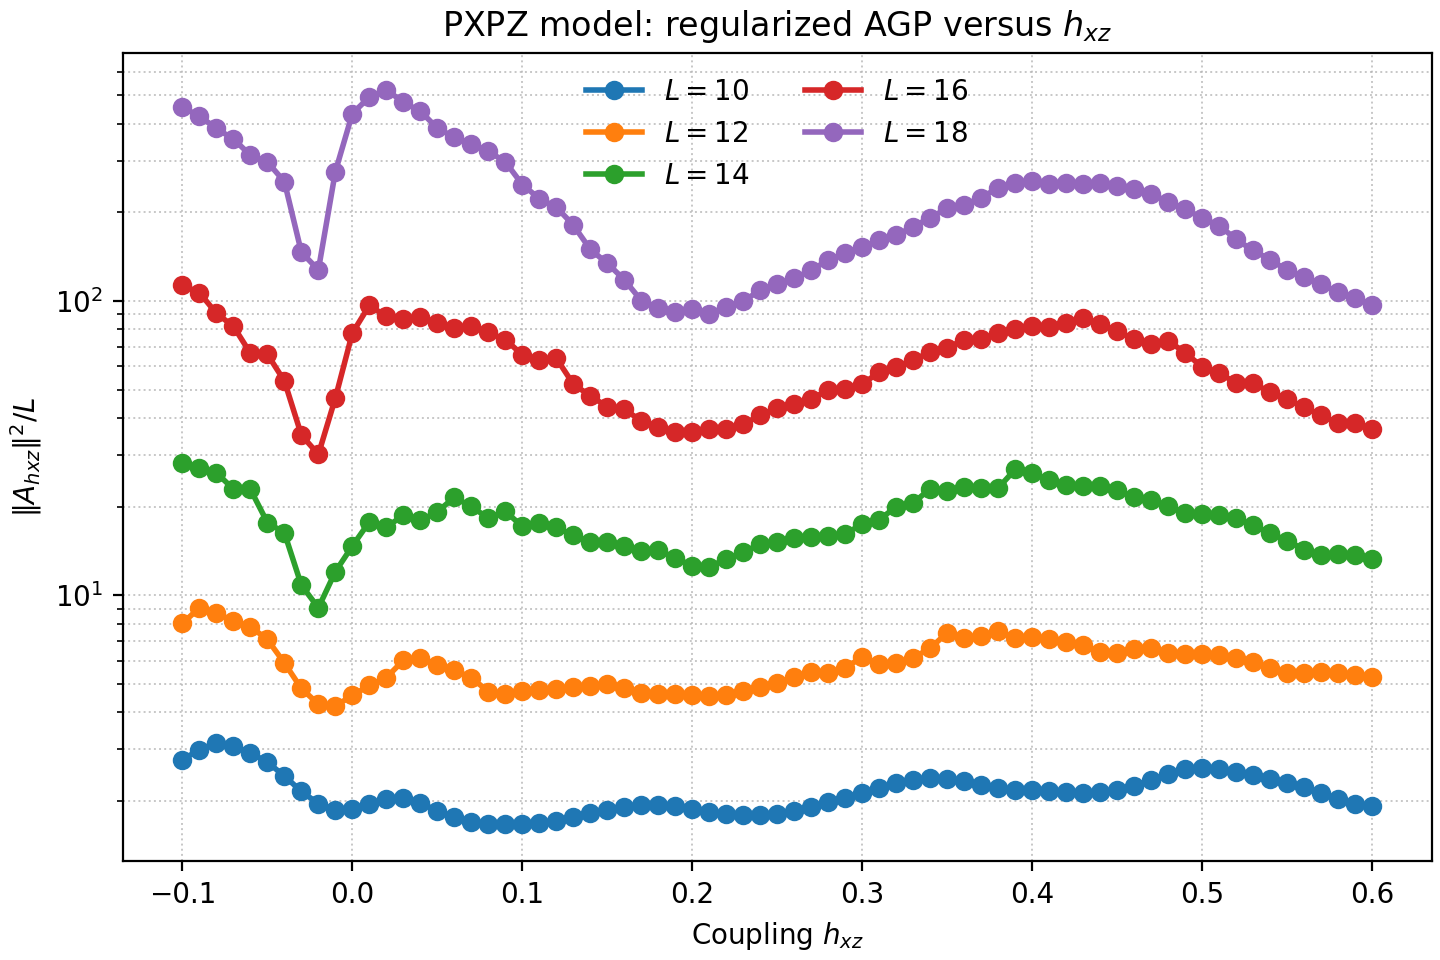
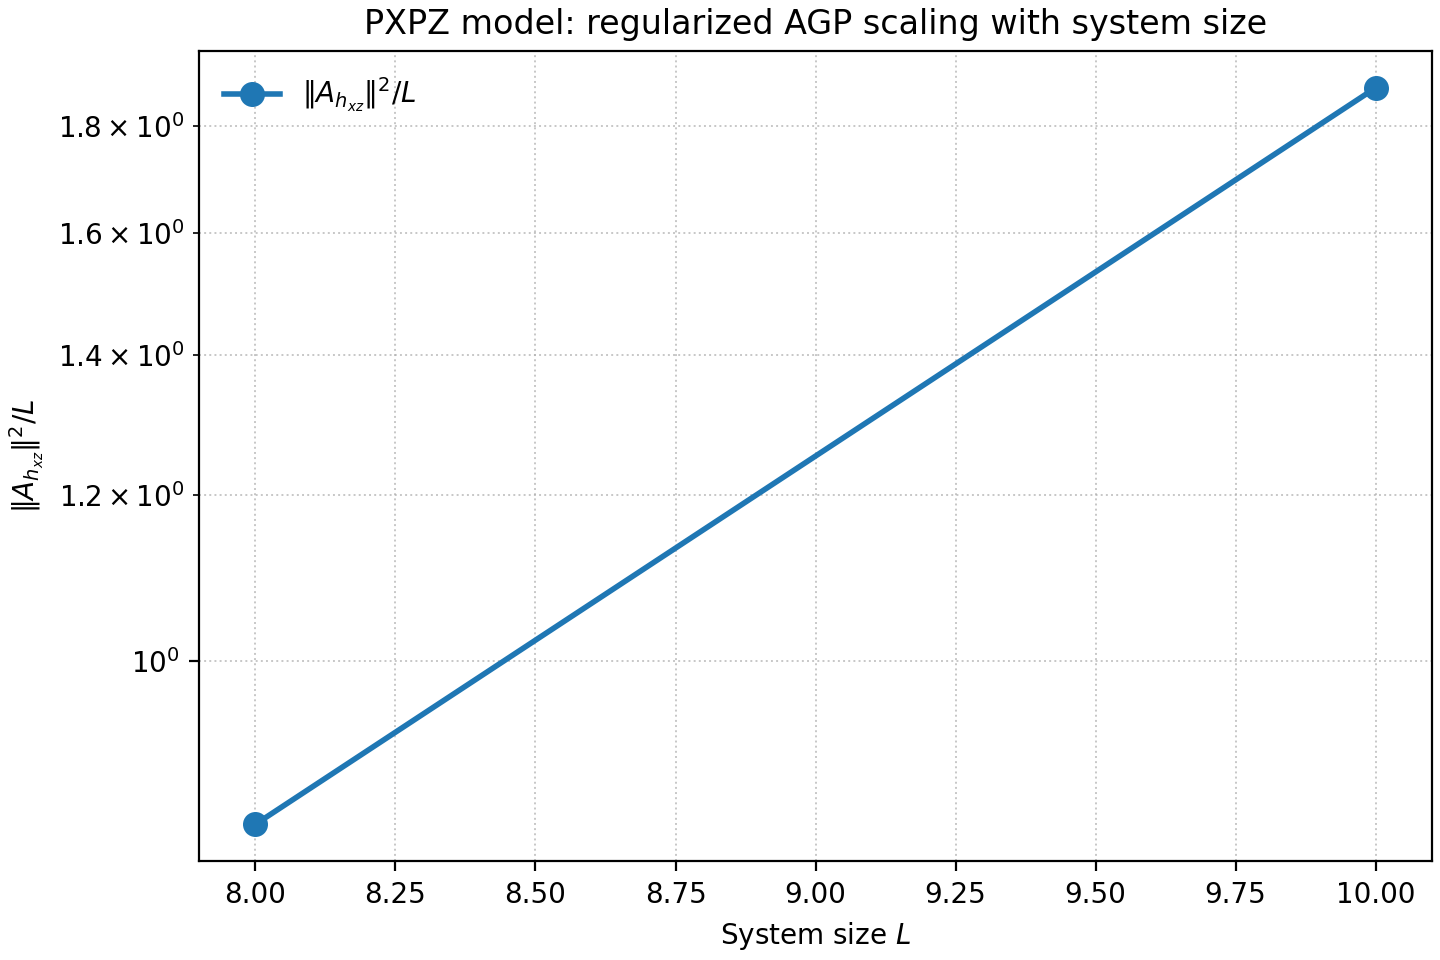
add spectral function

diff --git a/reproduce_fig6_7.py b/reproduce_fig6_7.py
@@ -1,0 +1,186 @@
+"""Reproduce Figs. 6 and 7 from Phys. Rev. X 10, 041017 (2020).
+
+This script computes the spectral weight
+
+    |f_\lambda(\omega)|^2 = (1/D) \sum_{n\ne m} |<n|\partial_\lambda H|m>|^2
+                                  * L_mu(\omega - (E_n-E_m))
+
+where the delta functions are replaced by Lorentzians L_mu(x) = (1/pi) mu/(x^2+mu^2)
+with width mu = L * 2^{-L} as in the paper. We average/plot the spectral
+weight on a logarithmically spaced frequency grid.
+
+By default the script computes the data for modest system sizes (L=12,14)
+to keep the test quick. Increase sizes and bins for production runs.
+"""
+
+from __future__ import annotations
+
+import argparse
+from pathlib import Path
+from typing import Iterable
+
+import matplotlib.pyplot as plt
+import numpy as np
+from quspin.basis import spin_basis_1d
+from quspin.operators import hamiltonian
+
+
+def build_xxz_with_defect(l: int, delta: float, eps_d: float) -> tuple[np.ndarray, np.ndarray, np.ndarray]:
+    """Return dense H, dH/dDelta, and V (defect operator) for given params.
+
+    H = H_XXZ + eps_d * V, with V = sigma^z_{center}.
+    dH/dDelta = sum_i sigma^z_i sigma^z_{i+1} (nearest-neighbor ZZ).
+    """
+    if l % 2 != 0:
+        raise ValueError("Use even L for zero-magnetization sector")
+
+    basis = spin_basis_1d(l, Nup=l // 2, pauli=True)
+
+    nn_xx = [[1.0, i, i + 1] for i in range(l - 1)]
+    nn_yy = [[1.0, i, i + 1] for i in range(l - 1)]
+    nn_zz = [[delta, i, i + 1] for i in range(l - 1)]
+
+    h_base = hamiltonian([["xx", nn_xx], ["yy", nn_yy], ["zz", nn_zz]], [], basis=basis, dtype=np.float64, check_herm=False)
+    dh_ddelta = hamiltonian([["zz", [[1.0, i, i + 1] for i in range(l - 1)]]], [], basis=basis, dtype=np.float64, check_herm=False)
+
+    center = (l + 1) // 2 - 1
+    v_list = [[1.0, center]]
+    Vop = hamiltonian([["z", v_list]], [], basis=basis, dtype=np.float64, check_herm=False)
+
+    H = np.asarray(h_base.todense(), dtype=np.float64) + float(eps_d) * np.asarray(Vop.todense(), dtype=np.float64)
+    return H, np.asarray(dh_ddelta.todense(), dtype=np.float64), np.asarray(Vop.todense(), dtype=np.float64)
+
+
+def spectral_weight_from_matrix(h: np.ndarray, dh: np.ndarray, mu: float, omega_grid: np.ndarray) -> np.ndarray:
+    """Compute |f_lambda(omega)|^2 on omega_grid using Lorentzian broadening mu.
+
+    Returns array of same shape as omega_grid.
+    """
+    evals, evecs = np.linalg.eigh(h)
+    dh_eig = evecs.conj().T @ dh @ evecs
+
+    En = evals[:, None]
+    Em = evals[None, :]
+    omegas = (En - Em)  # matrix of E_n - E_m
+
+    M2 = np.abs(dh_eig) ** 2
+    np.fill_diagonal(M2, 0.0)
+
+    D = h.shape[0]
+
+    # compute spectral function S(omega) = (1/D) * sum_{n!=m} M2_nm * Lorentzian(omega - omega_nm)
+    # Lorentzian normalized as (1/pi) * mu/(x^2+mu^2)
+    omega_flat = omegas.reshape(-1)
+    M2_flat = M2.reshape(-1)
+
+    S = np.zeros_like(omega_grid, dtype=float)
+    for i, w in enumerate(omega_grid):
+        x = w - omega_flat
+        L = (1.0 / np.pi) * (mu / (x * x + mu * mu))
+        S[i] = (1.0 / D) * np.sum(M2_flat * L)
+
+    return S
+
+
+def compute_and_plot_fig6(l_values: Iterable[int], delta: float, epsd_vals: Iterable[float], bins: int, output: Path) -> None:
+    """Compute and plot spectral weight for integrable perturbation (Fig. 6).
+
+    Plot |f_lambda(omega)|^2 vs omega for lambda=Delta at different epsd (including 0 and small epsd).
+    """
+    omega_min_factor = 1e-6
+    fig, ax = plt.subplots(figsize=(7.2, 4.8), constrained_layout=True)
+
+    for epsd in epsd_vals:
+        for L in l_values:
+            H, dh_ddelta, V = build_xxz_with_defect(L, delta, epsd)
+            mu = L * 2 ** (-L)
+
+            # define log-spaced omega grid between mu*1e-2 and max energy diff
+            evals = np.linalg.eigvalsh(H)
+            max_omega = np.max(evals) - np.min(evals)
+            omega_grid = np.logspace(np.log10(max(mu * 1e-3, 1e-12)), np.log10(max_omega + 1e-12), bins)
+
+            S = spectral_weight_from_matrix(H, dh_ddelta, mu, omega_grid)
+
+            label = fr"L={L}, epsd={epsd:.3g}" if epsd != 0.0 else fr"L={L}, epsd=0"
+            ax.loglog(omega_grid, S, label=label)
+
+    ax.set_xlabel(r"Frequency $\omega$")
+    ax.set_ylabel(r"$|f_\lambda(\omega)|^2$")
+    ax.set_title("Fig. 6 reproduction: spectral weight for integrable perturbation (\lambda=\Delta)")
+    ax.grid(True, which="both", linestyle=":", linewidth=0.7, alpha=0.7)
+    ax.legend(frameon=False, fontsize="small", ncol=2)
+    fig.savefig(output, dpi=200)
+    print(f"Saved {output}")
+
+
+def compute_and_plot_fig7(l_values: Iterable[int], delta: float, output: Path, bins: int = 200) -> None:
+    """Compute and plot spectral weights for nonintegrable perturbations (Fig. 7).
+
+    Top: lambda = epsd at epsd=0 (integrable point). Bottom: lambda=Delta at epsd=0.5 (strongly nonintegrable).
+    """
+    # top panel: lambda = epsd, epsd=0
+    fig, axes = plt.subplots(2, 1, figsize=(7.2, 9.6), constrained_layout=True)
+
+    # Top: lambda = epsd, at epsd=0 (integrable)
+    epsd = 0.0
+    ax = axes[0]
+    for L in l_values:
+        H, dh_ddelta, V = build_xxz_with_defect(L, delta, epsd)
+        mu = L * 2 ** (-L)
+        evals = np.linalg.eigvalsh(H)
+        max_omega = np.max(evals) - np.min(evals)
+        omega_grid = np.logspace(np.log10(max(mu * 1e-3, 1e-12)), np.log10(max_omega + 1e-12), bins)
+        S = spectral_weight_from_matrix(H, V, mu, omega_grid)  # derivative wrt epsd is V
+        ax.loglog(omega_grid, S, label=fr"L={L}")
+    ax.set_title("Fig.7 top: spectral weight for lambda=epsd at epsd=0 (integrable)")
+    ax.set_ylabel(r"$|f_\lambda(\omega)|^2$")
+    ax.grid(True, which="both", linestyle=":", linewidth=0.7, alpha=0.7)
+    ax.legend(frameon=False, fontsize="small")
+
+    # Bottom: lambda = Delta at epsd = 0.5 (strongly nonintegrable)
+    epsd = 0.5
+    ax = axes[1]
+    for L in l_values:
+        H, dh_ddelta, V = build_xxz_with_defect(L, delta, epsd)
+        mu = L * 2 ** (-L)
+        evals = np.linalg.eigvalsh(H)
+        max_omega = np.max(evals) - np.min(evals)
+        omega_grid = np.logspace(np.log10(max(mu * 1e-3, 1e-12)), np.log10(max_omega + 1e-12), bins)
+        S = spectral_weight_from_matrix(H, dh_ddelta, mu, omega_grid)
+        ax.loglog(omega_grid, S, label=fr"L={L}")
+    ax.set_title("Fig.7 bottom: spectral weight for lambda=Delta at epsd=0.5 (nonintegrable)")
+    ax.set_xlabel(r"Frequency $\omega$")
+    ax.set_ylabel(r"$|f_\lambda(\omega)|^2$")
+    ax.grid(True, which="both", linestyle=":", linewidth=0.7, alpha=0.7)
+    ax.legend(frameon=False, fontsize="small")
+
+    fig.savefig(output, dpi=200)
+    print(f"Saved {output}")
+
+
+def parse_args():
+    p = argparse.ArgumentParser(description=__doc__)
+    p.add_argument("--l-values", type=int, nargs="+", default=[12, 14], help="System sizes")
+    p.add_argument("--delta", type=float, default=1.1, help="XXZ anisotropy")
+    p.add_argument("--bins", type=int, default=200, help="Number of frequency bins (log-spaced)")
+    p.add_argument("--output6", type=Path, default=Path("fig6_spectral.png"))
+    p.add_argument("--output7", type=Path, default=Path("fig7_spectral.png"))
+    return p.parse_args()
+
+
+def main():
+    args = parse_args()
+    l_values = args.l_values
+    delta = args.delta
+    bins = args.bins
+
+    # Fig. 6: lambda = Delta, epsd = 0 and 0.05
+    compute_and_plot_fig6(l_values, delta, epsd_vals=[0.0, 0.05], bins=bins, output=args.output6)
+
+    # Fig. 7: two-panel plot
+    compute_and_plot_fig7(l_values, delta, output=args.output7, bins=bins)
+
+
+if __name__ == "__main__":
+    main()

diff --git a/pxp_agp_scaling.py b/pxp_agp_scaling.py
@@ -27,6 +27,7 @@ from diag import GetBasis, GetHam
 import os
 import json
 import hashlib
+from typing import Dict, Tuple
 
 
 def regularized_agp_norm_pxp(
@@ -190,6 +191,116 @@ def compute_pxp_chi_typ_series(
             print(f"L={l:2d}, hxz={hxz: .5f}, D={basis_dim:6d}, chi_typ/L={chi_typ_per_l:.6e}")
 
     return results
+
+
+def spectral_weight_from_matrix(h: np.ndarray, dh: np.ndarray, mu: float, omega_grid: np.ndarray) -> np.ndarray:
+    """Compute |f_lambda(omega)|^2 on omega_grid using Lorentzian broadening mu."""
+
+    evals, evecs = np.linalg.eigh(h)
+    dh_eig = evecs.conj().T @ dh @ evecs
+
+    omegas = (evals[:, None] - evals[None, :]).reshape(-1)
+    m2 = np.abs(dh_eig) ** 2
+    np.fill_diagonal(m2, 0.0)
+    m2_flat = m2.reshape(-1)
+
+    D = h.shape[0]
+    spectral = np.zeros_like(omega_grid, dtype=float)
+    for idx, omega in enumerate(omega_grid):
+        x = omega - omegas
+        lorentz = (1.0 / np.pi) * (mu / (x * x + mu * mu))
+        spectral[idx] = (1.0 / D) * np.sum(m2_flat * lorentz)
+
+    return spectral
+
+
+def compute_pxp_spectral_series(
+    l_values: Iterable[int],
+    hxz: float = 0.0,
+    bins: int = 200,
+    symmetry: tuple = (False, False),
+    boundary: str = "OBC",
+) -> dict[int, tuple[np.ndarray, np.ndarray]]:
+    """Compute spectral weight |f_{h_xz}(omega)|^2 vs omega for fixed hxz."""
+
+    results: dict[int, tuple[np.ndarray, np.ndarray]] = {}
+
+    for l in l_values:
+        gen_dict = dict(N=l, hxz=0.0, sym=symmetry, model="PXPZ", bound=boundary)
+        basis = GetBasis(gen_dict)
+        basis_dim = basis.Ns
+
+        isPBC = 1 if boundary == "PBC" else 0
+        if isPBC:
+            zx_list = [[1.0, i, (i + 2) % l] for i in range(l)]
+            xz_list = [[1.0, (i - 2) % l, i] for i in range(l)]
+        else:
+            zx_list = [[1.0, i - 2, i] for i in range(2, l)]
+            xz_list = [[1.0, i, i + 2] for i in range(l - 2)]
+
+        dh_dhxz = hamiltonian(
+            [["zx", zx_list], ["xz", xz_list]],
+            [],
+            basis=basis,
+            dtype=np.float64,
+            check_symm=False,
+            check_pcon=False,
+            check_herm=False,
+        )
+        dh_dhxz_dense = np.asarray(dh_dhxz.toarray(), dtype=np.float64)
+
+        gen_dict["hxz"] = hxz
+        h_base = GetHam(gen_dict, basis)
+        h_base_dense = np.asarray(h_base.toarray(), dtype=np.float64)
+
+        # mu = l * 2 ** (-l)
+        mu = l / basis_dim
+        evals = np.linalg.eigvalsh(h_base_dense)
+        max_omega = float(np.max(evals) - np.min(evals))
+        omega_min = max(mu * 1e-6, 1e-12)
+        omega_grid = np.logspace(np.log10(omega_min), np.log10(max_omega + 1e-12), bins)
+
+        spectral = spectral_weight_from_matrix(h_base_dense, dh_dhxz_dense, mu, omega_grid)
+        results[int(l)] = (omega_grid, spectral)
+        print(f"Computed spectral L={l}, hxz={hxz:.5f}, D={basis_dim:6d}")
+
+    return results
+
+
+def save_spectral_results(results: Dict[int, Tuple[np.ndarray, np.ndarray]], cache_path: Path) -> None:
+    npz = {}
+    for l, (omega, S) in results.items():
+        npz[f"L_{l}_omega"] = omega
+        npz[f"L_{l}_S"] = S
+    np.savez_compressed(cache_path, **npz)
+
+
+def load_spectral_results(cache_path: Path) -> Dict[int, Tuple[np.ndarray, np.ndarray]]:
+    arr = np.load(cache_path)
+    keys = list(arr.keys())
+    ls = sorted(set(k.split("_")[1] for k in keys))
+    results: Dict[int, Tuple[np.ndarray, np.ndarray]] = {}
+    for l in ls:
+        omega = arr[f"L_{l}_omega"]
+        S = arr[f"L_{l}_S"]
+        results[int(l)] = (omega, S)
+    return results
+
+
+def plot_pxp_spectral_series(results: Dict[int, Tuple[np.ndarray, np.ndarray]], output_path: Path) -> None:
+    fig, ax = plt.subplots(figsize=(7.2, 4.8), constrained_layout=True)
+
+    for l, (omega, S) in results.items():
+        ax.loglog(omega, S, marker="", linewidth=1.5, label=fr"$L={l}$")
+
+    ax.set_xlabel(r"Frequency $\omega$")
+    ax.set_ylabel(r"$|f_{h_{xz}}(\omega)|^2$")
+    ax.set_title(r"PXPZ: spectral weight $|f_{h_{xz}}(\omega)|^2$ (fixed $h_{xz}$)")
+    ax.grid(True, which="both", linestyle=":", linewidth=0.7, alpha=0.7)
+    ax.legend(frameon=False)
+
+    fig.savefig(output_path, dpi=200)
+    print(f"Saved plot to {output_path}")
 
 
 def compute_pxp_agp_size_series(
@@ -445,9 +556,9 @@ def parse_args() -> argparse.Namespace:
     parser = argparse.ArgumentParser(description=__doc__)
     parser.add_argument(
         "--mode",
-        choices=["hxz", "size"],
+        choices=["hxz", "size", "spectral"],
         default="hxz",
-        help="Plot AGP versus hxz at fixed L values or AGP versus L at fixed hxz.",
+        help="Plot AGP versus hxz, AGP versus L, or a standalone spectral function.",
     )
     parser.add_argument(
         "--l-values",
@@ -508,6 +619,24 @@ def parse_args() -> argparse.Namespace:
         type=Path,
         default=Path("pxp_agp_scaling.png"),
         help="Output image path.",
+    )
+    parser.add_argument(
+        "--spectral-output",
+        type=Path,
+        default=Path("pxp_spectral_weight.png"),
+        help="Output image path for the spectral-weight plot.",
+    )
+    parser.add_argument(
+        "--spectral-bins",
+        type=int,
+        default=200,
+        help="Number of log-spaced frequency bins for the spectral-weight plot.",
+    )
+    parser.add_argument(
+        "--spectral-hxz",
+        type=float,
+        default=0.0,
+        help="Fixed hxz value used for the spectral-weight plot.",
     )
     return parser.parse_args()
 
@@ -573,7 +702,7 @@ def main() -> None:
 
         chi_typ_output = args.output.parent / f"{args.output.stem}_chi_typ{args.output.suffix}"
         plot_pxp_chi_typ_series(chi_typ_results, chi_typ_output)
-    else:
+    elif args.mode == "size":
         print(f"Computing PXP AGP norm versus system size for hxz={args.hxz_fixed:.5f} and L = {l_values}")
         params = dict(l_values=list(l_values), hxz=float(args.hxz_fixed), boundary=args.boundary)
         cache_path = _make_cache_path("size", params)
@@ -590,6 +719,32 @@ def main() -> None:
             save_size_results(results, cache_path)
 
         plot_pxp_agp_size_series(results, args.output)
+    elif args.mode == "spectral":
+        spectral_hxz = float(args.spectral_hxz)
+        spectral_bins = int(args.spectral_bins)
+
+        print(f"Computing PXP spectral weight for hxz={spectral_hxz:.5f} and L = {l_values}")
+        spectral_params = dict(
+            l_values=list(l_values),
+            hxz=spectral_hxz,
+            bins=spectral_bins,
+            boundary=args.boundary,
+        )
+        spectral_cache_path = _make_cache_path("spectral_hxz", spectral_params)
+        if (not args.force) and spectral_cache_path.exists():
+            print(f"Loading cached spectral results from {spectral_cache_path}")
+            spectral_results = load_spectral_results(spectral_cache_path)
+        else:
+            spectral_results = compute_pxp_spectral_series(
+                l_values,
+                hxz=spectral_hxz,
+                bins=spectral_bins,
+                symmetry=(False, False),
+                boundary=args.boundary,
+            )
+            save_spectral_results(spectral_results, spectral_cache_path)
+
+        plot_pxp_spectral_series(spectral_results, args.spectral_output)
 
 
 if __name__ == "__main__":